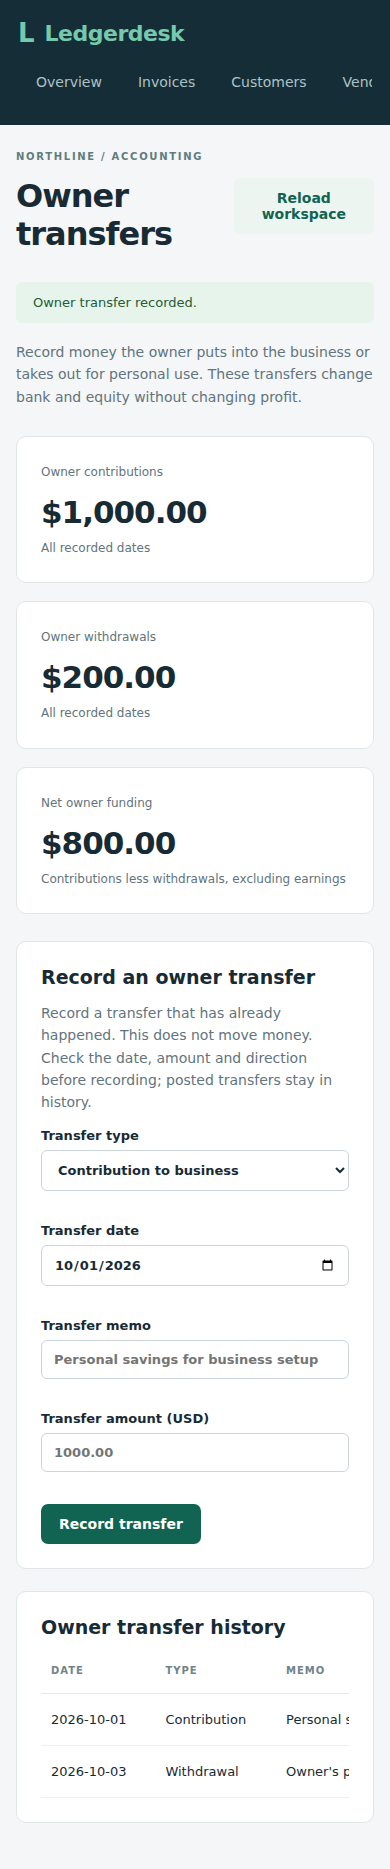
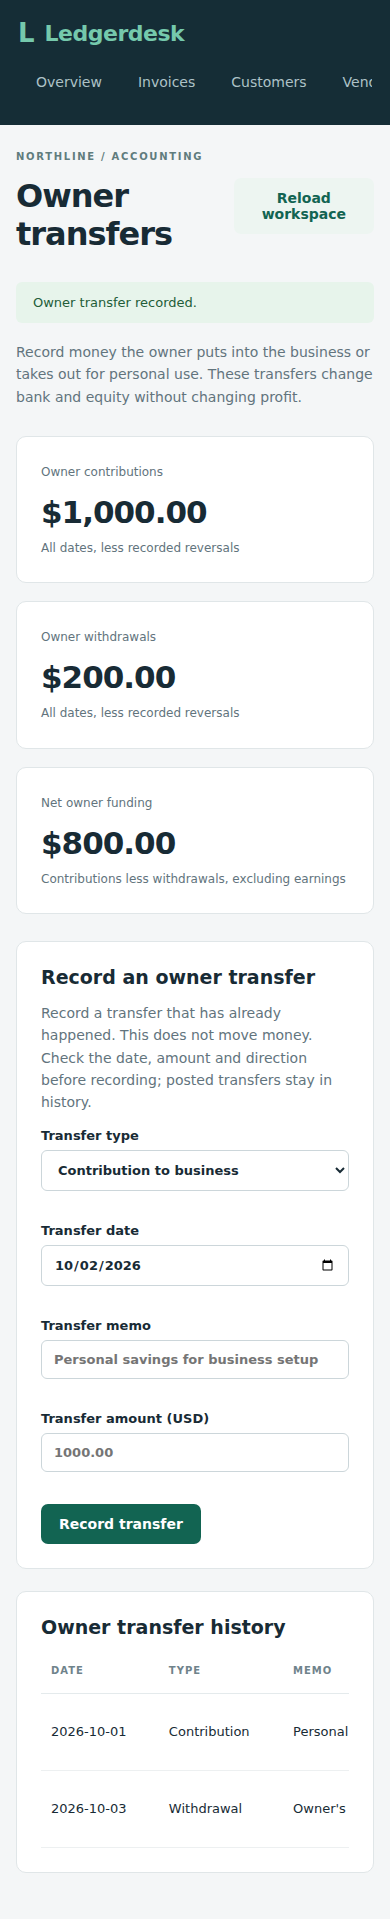
Document verified owner corrections and refresh screenshots

diff --git a/README.md b/README.md
@@ -2,7 +2,7 @@
 
 A small-business accounting application for freelancers and service agencies. It connects invoices, purchases, payments, and bank statements to a double-entry ledger, so the amount earned, cash received or spent, and balances still owed stay separate.
 
-The sample business is **Northline Design Studio**, a fictional agency using USD and accrual accounting. Invoicing, purchases, CSV bank imports, reviewed matching, statement reconciliation, and dated financial reports are working milestones. Adjustments, additional user roles, and deployment remain on the roadmap.
+The sample business is **Northline Design Studio**, a fictional agency using USD and accrual accounting. Invoicing, purchases, CSV bank imports, reviewed matching, statement reconciliation, dated financial reports, and owner funding/withdrawals are working milestones. Adjustments, additional user roles, and deployment remain on the roadmap.
 
 ## Working now
 
@@ -179,11 +179,11 @@ npm run test:reconciliation
 
 Keep ports 8081 and 5174 free. Playwright starts and stops both isolated servers. This workflow covers reconciliation preview, close, refresh-failure retry, closed-period protection, saved calculations, reopening, and mobile layout.
 
-All 101 backend integration tests passed on each of H2 and PostgreSQL 17, and all ten Chromium workflows passed on GitHub Actions. See [verification notes](docs/verification.md) for the checks completed locally and on GitHub Actions.
+All 117 backend integration tests passed on each of H2 and PostgreSQL 17, and all eleven Chromium workflows passed on GitHub Actions. See [verification notes](docs/verification.md) for the checks completed locally and on GitHub Actions.
 
 ## Next milestones
 
-1. Journal adjustments, owner contributions and drawings, and a broader accounting period workflow.
+1. General journal adjustments and a broader accounting period workflow.
 2. Persistent users, separate roles, business isolation, hardened deployment, backups, and restore testing.
 
 The current version has one business and one configured owner login. Bookkeeper/reviewer roles, multi-business access, secure hosted sessions, and deployment are not implemented. Basic authentication is limited to local development; a hosted release will need HTTPS and a reviewed session-based login. Activity records are application history, not a tamper-proof audit system.
@@ -201,3 +201,11 @@ Further milestones will extend those foundations into a complete service-busines
 Open **Reports**, choose an inclusive start/end date, and run the reports. The five views cover profit and loss, balance sheet, trial balance, customer aging and vendor aging. Export CSV downloads the displayed view with its dates and currency. Changing a date clears the result so an old report cannot be exported with new dates.
 
 Profit and loss covers the selected period; balance sheet, trial balance and aging include earlier records through the end date. A payment recorded after that date does not erase the historical outstanding balance. Reports read the posted books without changing them. See [report calculations, instructions and screenshots](docs/reports.md) for worked figures, scope and verification.
+
+## Owner transfers
+
+Open **Owner transfers** to record a contribution or personal withdrawal with its date, memo and USD amount. Contributions increase bank and equity; withdrawals reduce both. Neither is sales revenue or an operating expense. History and totals cover all recorded dates, while Reports can show an earlier cutoff. Owner transfers can be matched to imported bank rows.
+
+For a mistaken record, choose **Correct**, enter a reversal date and reason, and reverse it. The original remains in history; a dated offset updates the books. Matched transfers must be unmatched first, and closed periods must be reopened before changing them. Record any replacement separately. For money actually returned, record a new transfer in the opposite direction. See [owner accounting, corrections, screenshots and test instructions](docs/owner-equity.md).
+
+The isolated owner browser workflow runs with `npm run test:equity` in `frontend` after building the backend JAR and installing Chromium. It uses ports 8083 and 5176 and checks failed-refresh retries for both posting and corrections.

diff --git a/docs/owner-equity.md b/docs/owner-equity.md
@@ -10,7 +10,7 @@ The business lock, exact decimal journal helper, request-key check and activity 
 
 Owner cash entries appear as bank matching candidates with their direction and memo. The same one-to-one amount checks apply. Pending funding is an outstanding deposit and pending drawings are outstanding payments during reconciliation. Importing or matching a statement does not post the owner transfer again.
 
-Migration V7 adds the two accounts and transfer table without changing earlier migration files. General adjustments remain pending. Owner records have no edit/delete endpoint; corrections retain both the original and the dated offset. Final correction verification is pending.
+Migration V7 adds the two accounts and transfer table without changing earlier migration files. General adjustments remain pending. Owner records have no edit/delete endpoint; corrections retain both the original and the dated offset. Correction verification is recorded below.
 
 Eight integration tests cover exact contributions/drawings and equity reports, historical cutoff, request retries/conflicts, input validation, transaction rollback, matching/reconciliation with closed-date protection, outstanding funding, and endpoint authentication/CSRF/request keys. All 109 backend integration tests passed on H2 and all 109 passed on PostgreSQL 17, with zero failures, errors or skipped tests in [run 36941728558](https://github.com/Arhaam-Azhari/ledgerdesk/actions/runs/36941728558), source `38b9202ce48d2ab38f730bfdcc0b0c78a14bacd8`. The production frontend build and all ten existing Chromium workflows also passed. Those browser checks cover existing screens; the later owner-form checkpoint is documented below.
 
@@ -34,4 +34,6 @@ A matched transfer must be unmatched first. A closed original date or closed cor
 
 Migration V8 retains one reversal per transfer. The reversal row, offsetting journal, command and activity record commit together under the business lock. Retrying the same reversal returns its existing ID; another key cannot reverse the same transfer twice. The historical balance sheet includes the original until the reversal date. Current owner totals subtract all recorded reversals, including future dates; use Reports for a dated balance.
 
-Eight additional backend checks cover both directions, earlier balances, retained journal lines, duplicate/conflicting retries, invalid dates/reasons/IDs, transaction rollback, matched/closed protections and net reconciliation. The owner browser check now reverses a transfer, simulates an interrupted refresh, retries without duplicating the offset, and compares earlier/later equity. Results and a reviewed correction capture will be added after CI.
+Eight additional backend checks cover both directions, earlier balances, retained journal lines, duplicate/conflicting retries, invalid dates/reasons/IDs, transaction rollback, matched/closed protections and net reconciliation. The owner browser check now reverses a transfer, simulates an interrupted refresh, retries without duplicating the offset, and compares earlier/later equity. All 117 backend tests passed on each of H2 and PostgreSQL 17, the production frontend build passed, and all eleven Chromium workflows passed in [run 36943949702](https://github.com/Arhaam-Azhari/ledgerdesk/actions/runs/36943949702), source `76252166133c9bc92366f593fc5d7fecc813ffcd`. This includes the interrupted reversal refresh and exact-once retry, earlier/later equity, and mobile date readability. The three owner screenshots in these notes were refreshed from that final run and visually reviewed.
+
+![Original transfer retained with its reversal date and reason](screenshots/owner-correction.png)

diff --git a/docs/verification.md b/docs/verification.md
@@ -92,4 +92,8 @@ The desktop and mobile captures were downloaded from that run and reviewed. [Rep
 
 ## Owner equity draft checkpoint
 
-[Run 36942772413](https://github.com/Arhaam-Azhari/ledgerdesk/actions/runs/36942772413), source `7cdd41c80931aff69706b25921ea37187749402a`, passed 109 tests on each database, the production frontend build and eleven Chromium workflows. Eight backend tests cover owner posting, reports, bank matching/reconciliation, retries, rollback and access controls. The isolated owner browser workflow checks contributions, withdrawals, an interrupted refresh and exact-once retry, decimal input validation, dated equity with zero profit, retained records and mobile layout. Reviewed desktop/mobile examples and reproduction instructions are in [owner equity notes](owner-equity.md). This branch remains a draft while corrections are being built; it is not merged into main.
+[Run 36942772413](https://github.com/Arhaam-Azhari/ledgerdesk/actions/runs/36942772413), source `7cdd41c80931aff69706b25921ea37187749402a`, passed 109 tests on each database, the production frontend build and eleven Chromium workflows. Eight backend tests cover owner posting, reports, bank matching/reconciliation, retries, rollback and access controls. The isolated owner browser workflow checks contributions, withdrawals, an interrupted refresh and exact-once retry, decimal input validation, dated equity with zero profit, retained records and mobile layout. Reviewed desktop/mobile examples and reproduction instructions are in [owner equity notes](owner-equity.md). At that checkpoint the branch remained a draft while corrections were being built.
+
+## Completed owner correction checks
+
+[Run 36943949702](https://github.com/Arhaam-Azhari/ledgerdesk/actions/runs/36943949702), source `76252166133c9bc92366f593fc5d7fecc813ffcd`, passed 117 integration tests on each of H2 and PostgreSQL 17 with no failures, errors or skipped tests, the production frontend build, and all eleven Chromium workflows. The sixteen owner integration tests now include corrections: retained originals and historical balances, both directions, duplicate/conflicting retries, invalid correction details, rollback, matching protections, closed original dates and net reconciliation. The browser test retries a reversal after an interrupted refresh without duplicating it, then checks the original, reversal reason and dated equity. All three owner captures were downloaded from that run and reviewed; [owner notes](owner-equity.md) contain the images and instructions.

diff --git a/docs/architecture.md b/docs/architecture.md
@@ -77,4 +77,4 @@ The browser uses decimal strings/integer cents, invalidates previews after editi
 
 Migration V7 adds retained owner transfer records and separate contribution/drawing accounts. `EquityService` uses the existing business lock, retry fingerprint and two-line journal helper. A contribution credits equity; a withdrawal debits equity. These accounts feed the dated balance sheet without changing profit or customer/vendor aging. Owner cash lines join bank matching candidates and outstanding reconciliation entries, retaining their direction and memo.
 
-The owner form uses the same request-key retention through a failed workspace refresh as other postings. Its history and totals include all recorded dates; dated statements remain a separate Reports view. No edit/delete or correction endpoint is exposed yet. General journal adjustments and owner transfer corrections remain the next accounting work.
+The owner form uses the same request-key retention through a failed workspace refresh as other postings. Its history and totals include all recorded dates; dated statements remain a separate Reports view. Migration V8 stores one reversal per transfer, with a date and reason. The original entry is retained; its offset posts on the reversal date. A correction requires open original/reversal dates and an unmatched original bank line. Reversed originals cannot be selected for bank matching. The reversal and activity/command records share the posting transaction and retry lock. There is no edit/delete endpoint. General journal adjustments remain the next accounting work.
